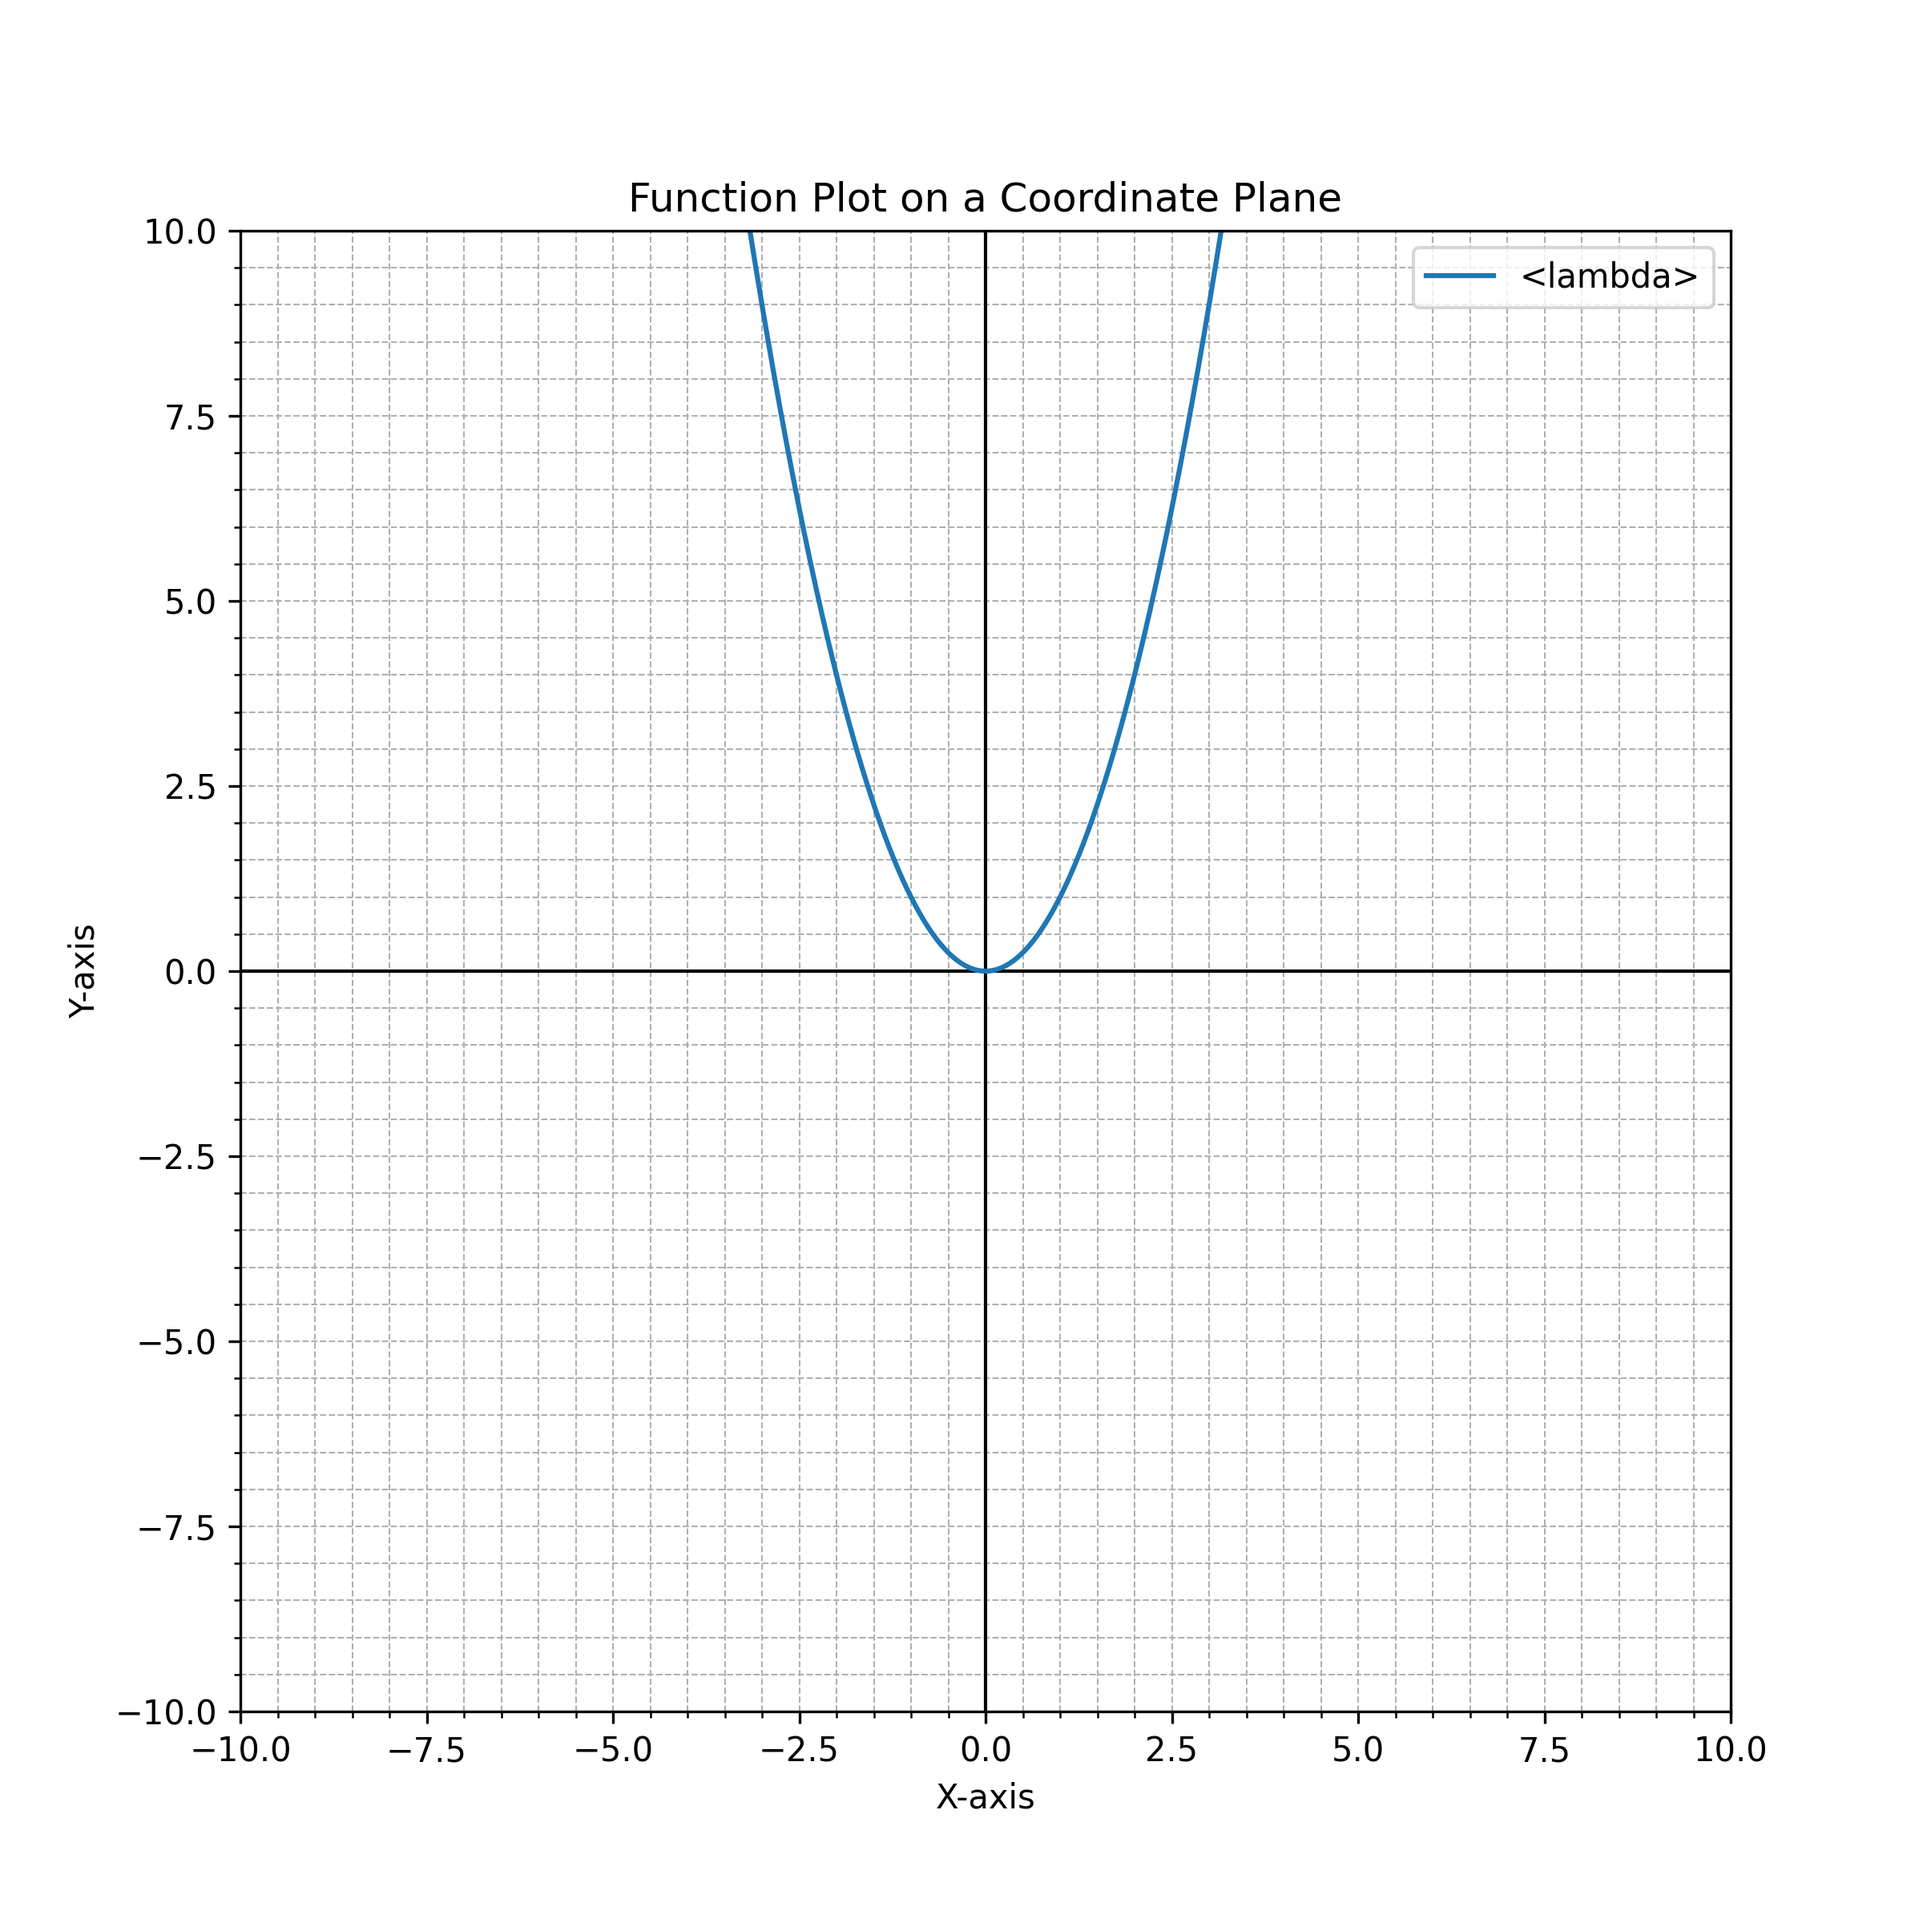
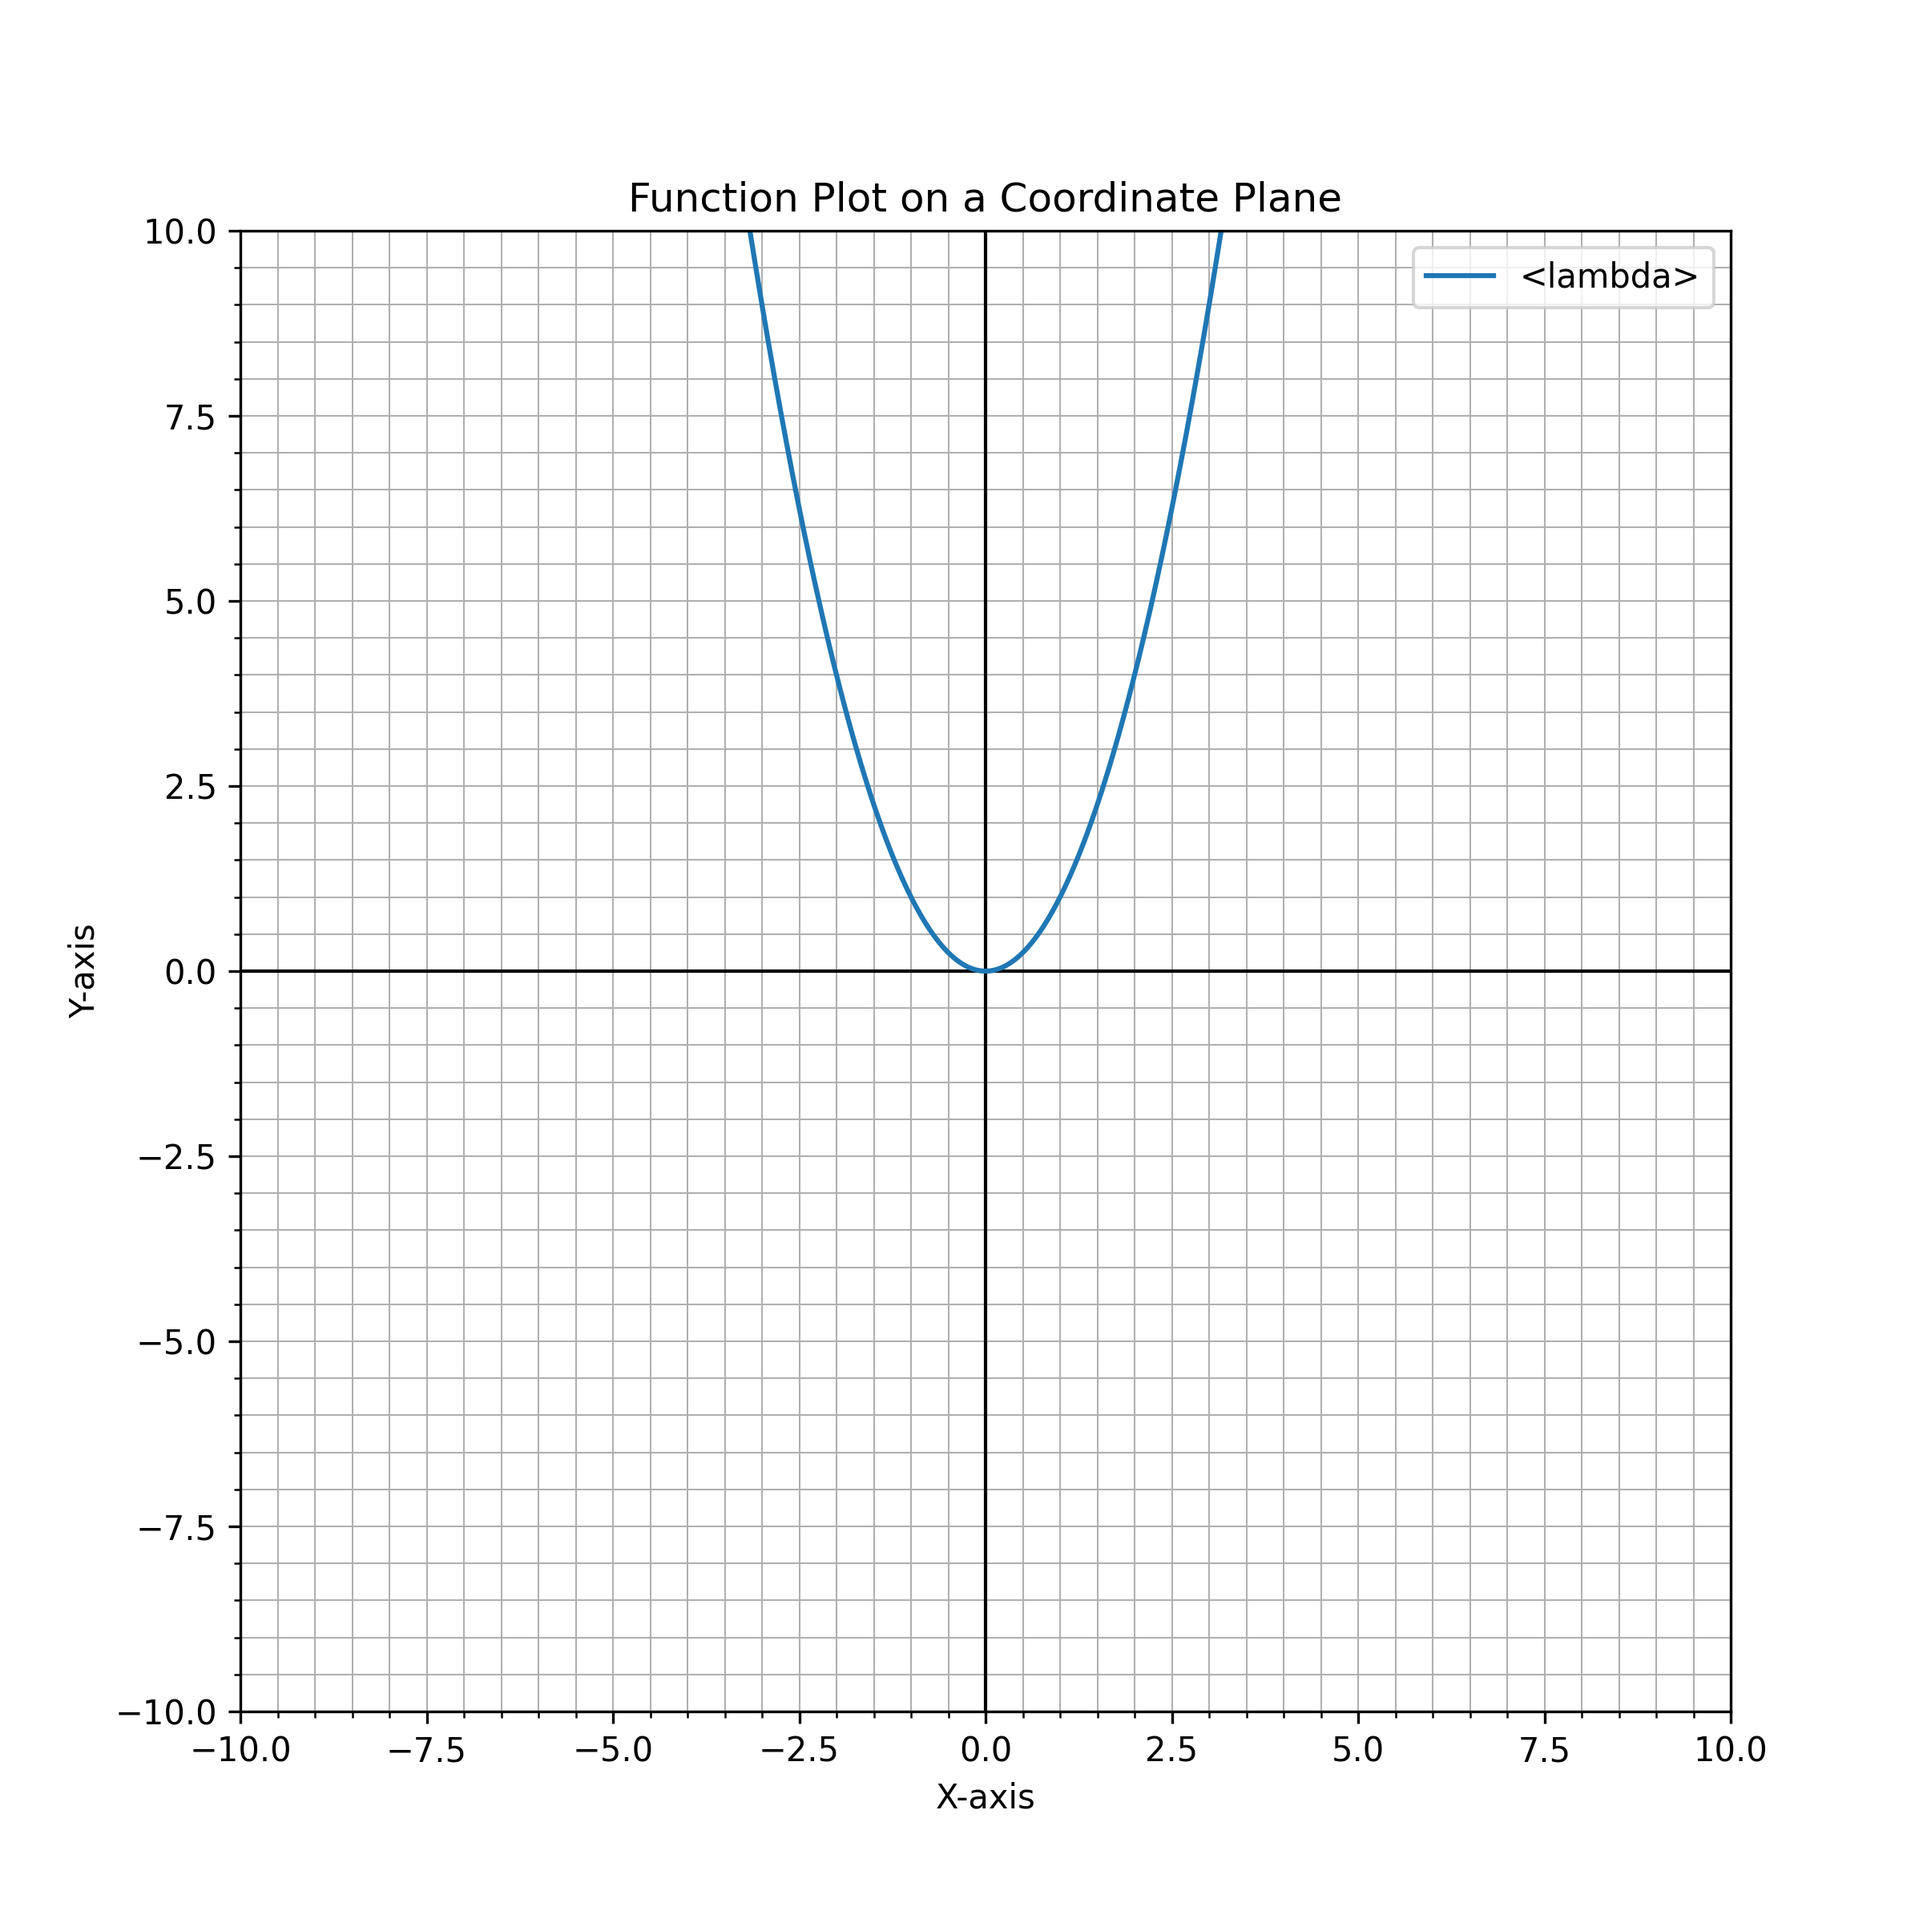
edits

diff --git a/Graph 1.py b/Graph 1.py
@@ -8,15 +8,17 @@ def plot_function(f, xlim=(-10, 10), ylim=(-10, 10), num_points=1000, save_as=No
     x = np.linspace(xlim[0], xlim[1], num_points)
     y = f(x)
     
-    plt.figure(figsize=(8, 8))
+    plt.figure(figsize=(7, 7))
     
     # Draw axes
     plt.axhline(0, color='black', linewidth=1)
     plt.axvline(0, color='black', linewidth=1)
     
     # Set grid and limits
-    plt.grid(True, linestyle='--', linewidth=0.5, which='both')
-    plt.minorticks_on()
+    plt.xticks(np.arange(xlim[0], xlim[1]))
+    plt.yticks(np.arange(ylim[0], ylim[1]))
+    plt.grid(True, linestyle='-', linewidth=0.5, which='both')
+    # plt.minorticks_on()
     plt.xlim(xlim)
     plt.ylim(ylim)
     
@@ -36,10 +38,9 @@ def plot_function(f, xlim=(-10, 10), ylim=(-10, 10), num_points=1000, save_as=No
     else:
         plt.show()
 
-# Example usage:
-plot_function(lambda x: x**2, save_as="function_plot.png")  # Save as PNG with a transparent background
-
-
+# The funtion
+plot_function(lambda x: x**3)  # Save as PNG with a transparent background
+# save_as="function_plot.png"
 
 
 
